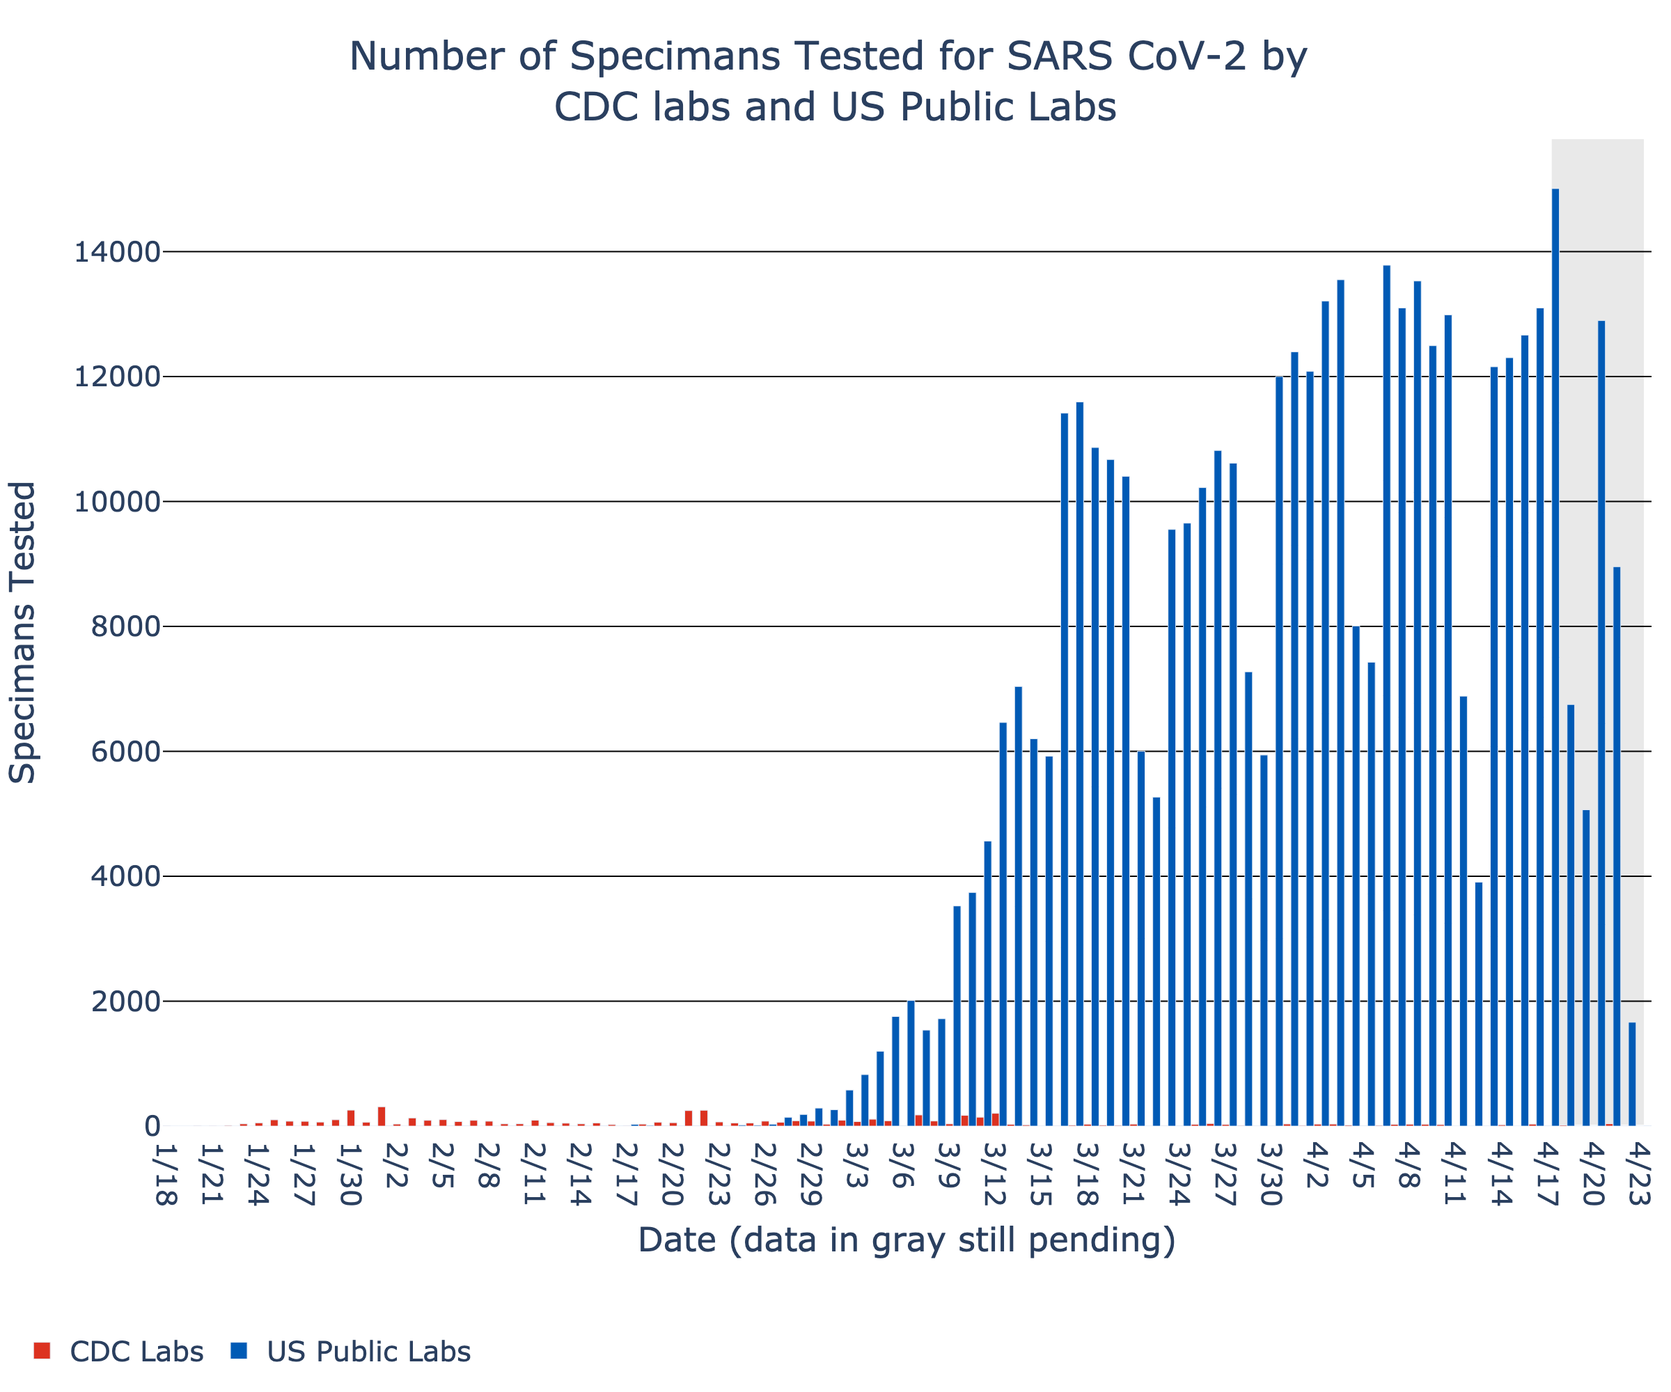
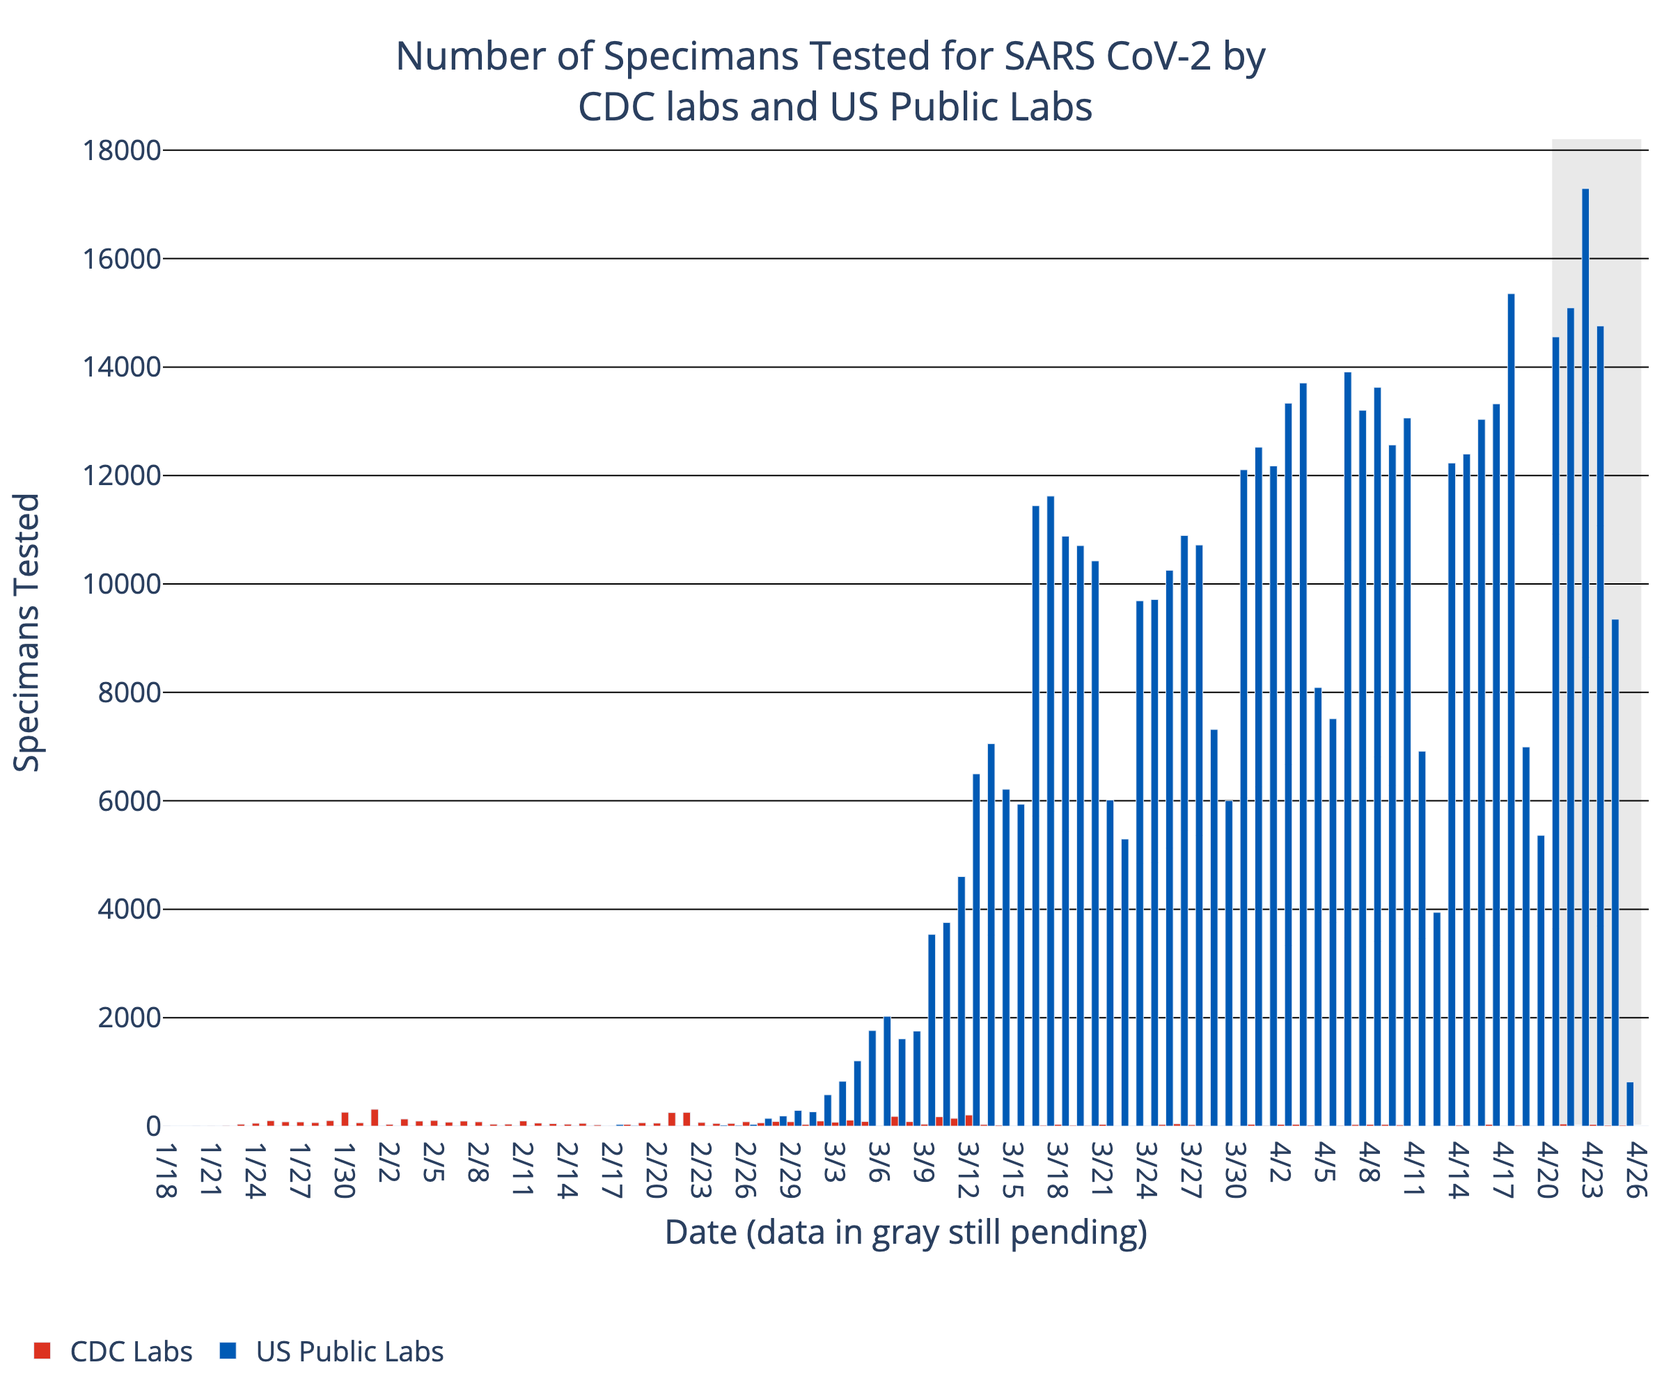
ran cdc plot scripts

diff --git a/_includes/plotCDCdata.html b/_includes/plotCDCdata.html
@@ -3,7 +3,7 @@
   <img alt="Access alternative presentations of this graph using the SAS Graphics Accelerator" id="graph" src="../Images_Plotly/CDCTestingPlotly.png"/>
  </div>
  <script class="ODSGraphics" type="application/xml">
-  <?xml version="1.0" encoding="utf-8" ?><SASReport version="1.2" xmlns:style="http://www.sas.com/sasreportmodel/styles"><Data version="sga3.2"><DataModel name="StatGraphDataModel"><IQData type="2DEmbedded" name="StatGraphData"><EmbeddedData><Variables><Variable name="VAR1" label="Date Collected" type="Numeric" valuesCount="194" SASFormat="mmddyys."  /><Variable name="VAR2" label="Specimens Collected" type="Numeric" valuesCount="194" SASFormat="comma."  /><Variable name="VAR3" label="Category" type="String" length="100" valuesCount="194"  /></Variables><ValuesList valuesCount="194" ><V>1/18</V><V>4</V><V>CDC Labs</V><V>1/18</V><V>0</V><V>US Public Health Labs</V><V>1/19</V><V>0</V><V>CDC Labs</V><V>1/19</V><V>0</V><V>US Public Health Labs</V><V>1/20</V><V>7</V><V>CDC Labs</V><V>1/20</V><V>0</V><V>US Public Health Labs</V><V>1/21</V><V>3</V><V>CDC Labs</V><V>1/21</V><V>0</V><V>US Public Health Labs</V><V>1/22</V><V>10</V><V>CDC Labs</V><V>1/22</V><V>0</V><V>US Public Health Labs</V><V>1/23</V><V>36</V><V>CDC Labs</V><V>1/23</V><V>0</V><V>US Public Health Labs</V><V>1/24</V><V>53</V><V>CDC Labs</V><V>1/24</V><V>0</V><V>US Public Health Labs</V><V>1/25</V><V>101</V><V>CDC Labs</V><V>1/25</V><V>0</V><V>US Public Health Labs</V><V>1/26</V><V>79</V><V>CDC Labs</V><V>1/26</V><V>0</V><V>US Public Health Labs</V><V>1/27</V><V>77</V><V>CDC Labs</V><V>1/27</V><V>0</V><V>US Public Health Labs</V><V>1/28</V><V>65</V><V>CDC Labs</V><V>1/28</V><V>0</V><V>US Public Health Labs</V><V>1/29</V><V>102</V><V>CDC Labs</V><V>1/29</V><V>0</V><V>US Public Health Labs</V><V>1/30</V><V>256</V><V>CDC Labs</V><V>1/30</V><V>0</V><V>US Public Health Labs</V><V>1/31</V><V>63</V><V>CDC Labs</V><V>1/31</V><V>0</V><V>US Public Health Labs</V><V>2/1</V><V>310</V><V>CDC Labs</V><V>2/1</V><V>3</V><V>US Public Health Labs</V><V>2/2</V><V>33</V><V>CDC Labs</V><V>2/2</V><V>0</V><V>US Public Health Labs</V><V>2/3</V><V>131</V><V>CDC Labs</V><V>2/3</V><V>1</V><V>US Public Health Labs</V><V>2/4</V><V>93</V><V>CDC Labs</V><V>2/4</V><V>0</V><V>US Public Health Labs</V><V>2/5</V><V>104</V><V>CDC Labs</V><V>2/5</V><V>3</V><V>US Public Health Labs</V><V>2/6</V><V>74</V><V>CDC Labs</V><V>2/6</V><V>2</V><V>US Public Health Labs</V><V>2/7</V><V>93</V><V>CDC Labs</V><V>2/7</V><V>0</V><V>US Public Health Labs</V><V>2/8</V><V>79</V><V>CDC Labs</V><V>2/8</V><V>0</V><V>US Public Health Labs</V><V>2/9</V><V>36</V><V>CDC Labs</V><V>2/9</V><V>2</V><V>US Public Health Labs</V><V>2/10</V><V>37</V><V>CDC Labs</V><V>2/10</V><V>1</V><V>US Public Health Labs</V><V>2/11</V><V>95</V><V>CDC Labs</V><V>2/11</V><V>2</V><V>US Public Health Labs</V><V>2/12</V><V>56</V><V>CDC Labs</V><V>2/12</V><V>2</V><V>US Public Health Labs</V><V>2/13</V><V>47</V><V>CDC Labs</V><V>2/13</V><V>1</V><V>US Public Health Labs</V><V>2/14</V><V>36</V><V>CDC Labs</V><V>2/14</V><V>5</V><V>US Public Health Labs</V><V>2/15</V><V>51</V><V>CDC Labs</V><V>2/15</V><V>4</V><V>US Public Health Labs</V><V>2/16</V><V>24</V><V>CDC Labs</V><V>2/16</V><V>1</V><V>US Public Health Labs</V><V>2/17</V><V>7</V><V>CDC Labs</V><V>2/17</V><V>29</V><V>US Public Health Labs</V><V>2/18</V><V>32</V><V>CDC Labs</V><V>2/18</V><V>11</V><V>US Public Health Labs</V><V>2/19</V><V>63</V><V>CDC Labs</V><V>2/19</V><V>6</V><V>US Public Health Labs</V><V>2/20</V><V>55</V><V>CDC Labs</V><V>2/20</V><V>5</V><V>US Public Health Labs</V><V>2/21</V><V>249</V><V>CDC Labs</V><V>2/21</V><V>3</V><V>US Public Health Labs</V><V>2/22</V><V>254</V><V>CDC Labs</V><V>2/22</V><V>3</V><V>US Public Health Labs</V><V>2/23</V><V>67</V><V>CDC Labs</V><V>2/23</V><V>2</V><V>US Public Health Labs</V><V>2/24</V><V>50</V><V>CDC Labs</V><V>2/24</V><V>19</V><V>US Public Health Labs</V><V>2/25</V><V>50</V><V>CDC Labs</V><V>2/25</V><V>14</V><V>US Public Health Labs</V><V>2/26</V><V>80</V><V>CDC Labs</V><V>2/26</V><V>31</V><V>US Public Health Labs</V><V>2/27</V><V>62</V><V>CDC Labs</V><V>2/27</V><V>142</V><V>US Public Health Labs</V><V>2/28</V><V>86</V><V>CDC Labs</V><V>2/28</V><V>187</V><V>US Public Health Labs</V><V>2/29</V><V>80</V><V>CDC Labs</V><V>2/29</V><V>289</V><V>US Public Health Labs</V><V>3/1</V><V>31</V><V>CDC Labs</V><V>3/1</V><V>263</V><V>US Public Health Labs</V><V>3/2</V><V>94</V><V>CDC Labs</V><V>3/2</V><V>578</V><V>US Public Health Labs</V><V>3/3</V><V>73</V><V>CDC Labs</V><V>3/3</V><V>825</V><V>US Public Health Labs</V><V>3/4</V><V>111</V><V>CDC Labs</V><V>3/4</V><V>1199</V><V>US Public Health Labs</V><V>3/5</V><V>86</V><V>CDC Labs</V><V>3/5</V><V>1755</V><V>US Public Health Labs</V><V>3/6</V><V>5</V><V>CDC Labs</V><V>3/6</V><V>2013</V><V>US Public Health Labs</V><V>3/7</V><V>179</V><V>CDC Labs</V><V>3/7</V><V>1537</V><V>US Public Health Labs</V><V>3/8</V><V>82</V><V>CDC Labs</V><V>3/8</V><V>1719</V><V>US Public Health Labs</V><V>3/9</V><V>36</V><V>CDC Labs</V><V>3/9</V><V>3525</V><V>US Public Health Labs</V><V>3/10</V><V>172</V><V>CDC Labs</V><V>3/10</V><V>3741</V><V>US Public Health Labs</V><V>3/11</V><V>143</V><V>CDC Labs</V><V>3/11</V><V>4564</V><V>US Public Health Labs</V><V>3/12</V><V>205</V><V>CDC Labs</V><V>3/12</V><V>6463</V><V>US Public Health Labs</V><V>3/13</V><V>29</V><V>CDC Labs</V><V>3/13</V><V>7039</V><V>US Public Health Labs</V><V>3/14</V><V>20</V><V>CDC Labs</V><V>3/14</V><V>6202</V><V>US Public Health Labs</V><V>3/15</V><V>1</V><V>CDC Labs</V><V>3/15</V><V>5923</V><V>US Public Health Labs</V><V>3/16</V><V>3</V><V>CDC Labs</V><V>3/16</V><V>11415</V><V>US Public Health Labs</V><V>3/17</V><V>15</V><V>CDC Labs</V><V>3/17</V><V>11594</V><V>US Public Health Labs</V><V>3/18</V><V>31</V><V>CDC Labs</V><V>3/18</V><V>10865</V><V>US Public Health Labs</V><V>3/19</V><V>15</V><V>CDC Labs</V><V>3/19</V><V>10673</V><V>US Public Health Labs</V><V>3/20</V><V>11</V><V>CDC Labs</V><V>3/20</V><V>10404</V><V>US Public Health Labs</V><V>3/21</V><V>32</V><V>CDC Labs</V><V>3/21</V><V>6003</V><V>US Public Health Labs</V><V>3/22</V><V>1</V><V>CDC Labs</V><V>3/22</V><V>5268</V><V>US Public Health Labs</V><V>3/23</V><V>2</V><V>CDC Labs</V><V>3/23</V><V>9553</V><V>US Public Health Labs</V><V>3/24</V><V>4</V><V>CDC Labs</V><V>3/24</V><V>9654</V><V>US Public Health Labs</V><V>3/25</V><V>29</V><V>CDC Labs</V><V>3/25</V><V>10223</V><V>US Public Health Labs</V><V>3/26</V><V>42</V><V>CDC Labs</V><V>3/26</V><V>10818</V><V>US Public Health Labs</V><V>3/27</V><V>26</V><V>CDC Labs</V><V>3/27</V><V>10614</V><V>US Public Health Labs</V><V>3/28</V><V>9</V><V>CDC Labs</V><V>3/28</V><V>7274</V><V>US Public Health Labs</V><V>3/29</V><V>1</V><V>CDC Labs</V><V>3/29</V><V>5941</V><V>US Public Health Labs</V><V>3/30</V><V>5</V><V>CDC Labs</V><V>3/30</V><V>12002</V><V>US Public Health Labs</V><V>3/31</V><V>34</V><V>CDC Labs</V><V>3/31</V><V>12396</V><V>US Public Health Labs</V><V>4/1</V><V>10</V><V>CDC Labs</V><V>4/1</V><V>12084</V><V>US Public Health Labs</V><V>4/2</V><V>32</V><V>CDC Labs</V><V>4/2</V><V>13209</V><V>US Public Health Labs</V><V>4/3</V><V>33</V><V>CDC Labs</V><V>4/3</V><V>13551</V><V>US Public Health Labs</V><V>4/4</V><V>17</V><V>CDC Labs</V><V>4/4</V><V>8008</V><V>US Public Health Labs</V><V>4/5</V><V>5</V><V>CDC Labs</V><V>4/5</V><V>7427</V><V>US Public Health Labs</V><V>4/6</V><V>11</V><V>CDC Labs</V><V>4/6</V><V>13784</V><V>US Public Health Labs</V><V>4/7</V><V>28</V><V>CDC Labs</V><V>4/7</V><V>13100</V><V>US Public Health Labs</V><V>4/8</V><V>31</V><V>CDC Labs</V><V>4/8</V><V>13531</V><V>US Public Health Labs</V><V>4/9</V><V>30</V><V>CDC Labs</V><V>4/9</V><V>12495</V><V>US Public Health Labs</V><V>4/10</V><V>24</V><V>CDC Labs</V><V>4/10</V><V>12989</V><V>US Public Health Labs</V><V>4/11</V><V>0</V><V>CDC Labs</V><V>4/11</V><V>6885</V><V>US Public Health Labs</V><V>4/12</V><V>0</V><V>CDC Labs</V><V>4/12</V><V>3906</V><V>US Public Health Labs</V><V>4/13</V><V>1</V><V>CDC Labs</V><V>4/13</V><V>12158</V><V>US Public Health Labs</V><V>4/14</V><V>21</V><V>CDC Labs</V><V>4/14</V><V>12303</V><V>US Public Health Labs</V><V>4/15</V><V>0</V><V>CDC Labs</V><V>4/15</V><V>12664</V><V>US Public Health Labs</V><V>4/16</V><V>32</V><V>CDC Labs</V><V>4/16</V><V>13099</V><V>US Public Health Labs</V><V>4/17</V><V>6</V><V>CDC Labs</V><V>4/17</V><V>15011</V><V>US Public Health Labs</V><V>4/18</V><V>17</V><V>CDC Labs</V><V>4/18</V><V>6751</V><V>US Public Health Labs</V><V>4/19</V><V>1</V><V>CDC Labs</V><V>4/19</V><V>5065</V><V>US Public Health Labs</V><V>4/20</V><V>0</V><V>CDC Labs</V><V>4/20</V><V>12897</V><V>US Public Health Labs</V><V>4/21</V><V>38</V><V>CDC Labs</V><V>4/21</V><V>8957</V><V>US Public Health Labs</V><V>4/22</V><V>4</V><V>CDC Labs</V><V>4/22</V><V>1663</V><V>US Public Health Labs</V><V>4/23</V><V>0</V><V>CDC Labs</V><V>4/23</V><V>5</V><V>US Public Health Labs</V></ValuesList></EmbeddedData></IQData><VarStats><VarStat name="VAR1" modelName="statgraphdata1" nobs="194" min="0" max="15011" /><VarStat name="VAR2" modelName="statgraphdata1" nobs="194" min="0" max="15011" /></VarStats></DataModel></Data><View><StatGraph subpixel="on" height="480" width="640" designHeight="480" style:style="StatGraphStyle" antiAlias="true" nBinsMax="10000" nXYBinsMax="100000" sessionLocale="en_US" missingOption="." notesOption="true" collation="binary" version="sga3.2"><EntryTitle><EntryItem>Number of specimens tested for SARS CoV-2 by CDC labs and U.S. public health labs</EntryItem></EntryTitle><EntryFootnote><EntryItem hAlign="left">Footnote: US Public Lab after April 10th are incomplete because of the lag in time between when specimens are accessioned, testing is performed, and results are reported.</EntryItem></EntryFootnote><LayoutOverlay><XAxisOpts label="Date Collected"></XAxisOpts><YAxisOpts label="Specimens Collected"></YAxisOpts><BarChartParm category="statgraphdata1#VAR1" response="statgraphdata1#VAR2" stat="sum" group="statgraphdata1#VAR3" groupDisplay="cluster" _stmt="barchart"></BarChartParm></LayoutOverlay></StatGraph></View></SASReport>
+  <?xml version="1.0" encoding="utf-8" ?><SASReport version="1.2" xmlns:style="http://www.sas.com/sasreportmodel/styles"><Data version="sga3.2"><DataModel name="StatGraphDataModel"><IQData type="2DEmbedded" name="StatGraphData"><EmbeddedData><Variables><Variable name="VAR1" label="Date Collected" type="Numeric" valuesCount="200" SASFormat="mmddyys."  /><Variable name="VAR2" label="Specimens Collected" type="Numeric" valuesCount="200" SASFormat="comma."  /><Variable name="VAR3" label="Category" type="String" length="100" valuesCount="200"  /></Variables><ValuesList valuesCount="200" ><V>1/18</V><V>4</V><V>CDC Labs</V><V>1/18</V><V>0</V><V>US Public Health Labs</V><V>1/19</V><V>0</V><V>CDC Labs</V><V>1/19</V><V>0</V><V>US Public Health Labs</V><V>1/20</V><V>7</V><V>CDC Labs</V><V>1/20</V><V>0</V><V>US Public Health Labs</V><V>1/21</V><V>3</V><V>CDC Labs</V><V>1/21</V><V>0</V><V>US Public Health Labs</V><V>1/22</V><V>10</V><V>CDC Labs</V><V>1/22</V><V>0</V><V>US Public Health Labs</V><V>1/23</V><V>36</V><V>CDC Labs</V><V>1/23</V><V>0</V><V>US Public Health Labs</V><V>1/24</V><V>53</V><V>CDC Labs</V><V>1/24</V><V>0</V><V>US Public Health Labs</V><V>1/25</V><V>101</V><V>CDC Labs</V><V>1/25</V><V>0</V><V>US Public Health Labs</V><V>1/26</V><V>79</V><V>CDC Labs</V><V>1/26</V><V>0</V><V>US Public Health Labs</V><V>1/27</V><V>77</V><V>CDC Labs</V><V>1/27</V><V>0</V><V>US Public Health Labs</V><V>1/28</V><V>65</V><V>CDC Labs</V><V>1/28</V><V>0</V><V>US Public Health Labs</V><V>1/29</V><V>102</V><V>CDC Labs</V><V>1/29</V><V>0</V><V>US Public Health Labs</V><V>1/30</V><V>256</V><V>CDC Labs</V><V>1/30</V><V>0</V><V>US Public Health Labs</V><V>1/31</V><V>63</V><V>CDC Labs</V><V>1/31</V><V>0</V><V>US Public Health Labs</V><V>2/1</V><V>310</V><V>CDC Labs</V><V>2/1</V><V>3</V><V>US Public Health Labs</V><V>2/2</V><V>33</V><V>CDC Labs</V><V>2/2</V><V>1</V><V>US Public Health Labs</V><V>2/3</V><V>131</V><V>CDC Labs</V><V>2/3</V><V>1</V><V>US Public Health Labs</V><V>2/4</V><V>93</V><V>CDC Labs</V><V>2/4</V><V>0</V><V>US Public Health Labs</V><V>2/5</V><V>104</V><V>CDC Labs</V><V>2/5</V><V>3</V><V>US Public Health Labs</V><V>2/6</V><V>74</V><V>CDC Labs</V><V>2/6</V><V>4</V><V>US Public Health Labs</V><V>2/7</V><V>93</V><V>CDC Labs</V><V>2/7</V><V>0</V><V>US Public Health Labs</V><V>2/8</V><V>79</V><V>CDC Labs</V><V>2/8</V><V>0</V><V>US Public Health Labs</V><V>2/9</V><V>36</V><V>CDC Labs</V><V>2/9</V><V>2</V><V>US Public Health Labs</V><V>2/10</V><V>37</V><V>CDC Labs</V><V>2/10</V><V>1</V><V>US Public Health Labs</V><V>2/11</V><V>95</V><V>CDC Labs</V><V>2/11</V><V>2</V><V>US Public Health Labs</V><V>2/12</V><V>56</V><V>CDC Labs</V><V>2/12</V><V>2</V><V>US Public Health Labs</V><V>2/13</V><V>47</V><V>CDC Labs</V><V>2/13</V><V>1</V><V>US Public Health Labs</V><V>2/14</V><V>36</V><V>CDC Labs</V><V>2/14</V><V>5</V><V>US Public Health Labs</V><V>2/15</V><V>51</V><V>CDC Labs</V><V>2/15</V><V>4</V><V>US Public Health Labs</V><V>2/16</V><V>24</V><V>CDC Labs</V><V>2/16</V><V>1</V><V>US Public Health Labs</V><V>2/17</V><V>7</V><V>CDC Labs</V><V>2/17</V><V>29</V><V>US Public Health Labs</V><V>2/18</V><V>32</V><V>CDC Labs</V><V>2/18</V><V>11</V><V>US Public Health Labs</V><V>2/19</V><V>63</V><V>CDC Labs</V><V>2/19</V><V>6</V><V>US Public Health Labs</V><V>2/20</V><V>55</V><V>CDC Labs</V><V>2/20</V><V>5</V><V>US Public Health Labs</V><V>2/21</V><V>249</V><V>CDC Labs</V><V>2/21</V><V>4</V><V>US Public Health Labs</V><V>2/22</V><V>254</V><V>CDC Labs</V><V>2/22</V><V>4</V><V>US Public Health Labs</V><V>2/23</V><V>67</V><V>CDC Labs</V><V>2/23</V><V>3</V><V>US Public Health Labs</V><V>2/24</V><V>50</V><V>CDC Labs</V><V>2/24</V><V>20</V><V>US Public Health Labs</V><V>2/25</V><V>50</V><V>CDC Labs</V><V>2/25</V><V>14</V><V>US Public Health Labs</V><V>2/26</V><V>80</V><V>CDC Labs</V><V>2/26</V><V>31</V><V>US Public Health Labs</V><V>2/27</V><V>62</V><V>CDC Labs</V><V>2/27</V><V>142</V><V>US Public Health Labs</V><V>2/28</V><V>86</V><V>CDC Labs</V><V>2/28</V><V>188</V><V>US Public Health Labs</V><V>2/29</V><V>80</V><V>CDC Labs</V><V>2/29</V><V>289</V><V>US Public Health Labs</V><V>3/1</V><V>31</V><V>CDC Labs</V><V>3/1</V><V>264</V><V>US Public Health Labs</V><V>3/2</V><V>94</V><V>CDC Labs</V><V>3/2</V><V>578</V><V>US Public Health Labs</V><V>3/3</V><V>73</V><V>CDC Labs</V><V>3/3</V><V>826</V><V>US Public Health Labs</V><V>3/4</V><V>111</V><V>CDC Labs</V><V>3/4</V><V>1205</V><V>US Public Health Labs</V><V>3/5</V><V>86</V><V>CDC Labs</V><V>3/5</V><V>1762</V><V>US Public Health Labs</V><V>3/6</V><V>5</V><V>CDC Labs</V><V>3/6</V><V>2026</V><V>US Public Health Labs</V><V>3/7</V><V>179</V><V>CDC Labs</V><V>3/7</V><V>1609</V><V>US Public Health Labs</V><V>3/8</V><V>82</V><V>CDC Labs</V><V>3/8</V><V>1753</V><V>US Public Health Labs</V><V>3/9</V><V>36</V><V>CDC Labs</V><V>3/9</V><V>3535</V><V>US Public Health Labs</V><V>3/10</V><V>172</V><V>CDC Labs</V><V>3/10</V><V>3754</V><V>US Public Health Labs</V><V>3/11</V><V>143</V><V>CDC Labs</V><V>3/11</V><V>4602</V><V>US Public Health Labs</V><V>3/12</V><V>205</V><V>CDC Labs</V><V>3/12</V><V>6497</V><V>US Public Health Labs</V><V>3/13</V><V>29</V><V>CDC Labs</V><V>3/13</V><V>7053</V><V>US Public Health Labs</V><V>3/14</V><V>20</V><V>CDC Labs</V><V>3/14</V><V>6213</V><V>US Public Health Labs</V><V>3/15</V><V>1</V><V>CDC Labs</V><V>3/15</V><V>5936</V><V>US Public Health Labs</V><V>3/16</V><V>3</V><V>CDC Labs</V><V>3/16</V><V>11442</V><V>US Public Health Labs</V><V>3/17</V><V>15</V><V>CDC Labs</V><V>3/17</V><V>11620</V><V>US Public Health Labs</V><V>3/18</V><V>31</V><V>CDC Labs</V><V>3/18</V><V>10881</V><V>US Public Health Labs</V><V>3/19</V><V>15</V><V>CDC Labs</V><V>3/19</V><V>10707</V><V>US Public Health Labs</V><V>3/20</V><V>11</V><V>CDC Labs</V><V>3/20</V><V>10425</V><V>US Public Health Labs</V><V>3/21</V><V>32</V><V>CDC Labs</V><V>3/21</V><V>6015</V><V>US Public Health Labs</V><V>3/22</V><V>1</V><V>CDC Labs</V><V>3/22</V><V>5294</V><V>US Public Health Labs</V><V>3/23</V><V>2</V><V>CDC Labs</V><V>3/23</V><V>9690</V><V>US Public Health Labs</V><V>3/24</V><V>4</V><V>CDC Labs</V><V>3/24</V><V>9713</V><V>US Public Health Labs</V><V>3/25</V><V>29</V><V>CDC Labs</V><V>3/25</V><V>10252</V><V>US Public Health Labs</V><V>3/26</V><V>42</V><V>CDC Labs</V><V>3/26</V><V>10894</V><V>US Public Health Labs</V><V>3/27</V><V>26</V><V>CDC Labs</V><V>3/27</V><V>10718</V><V>US Public Health Labs</V><V>3/28</V><V>9</V><V>CDC Labs</V><V>3/28</V><V>7316</V><V>US Public Health Labs</V><V>3/29</V><V>1</V><V>CDC Labs</V><V>3/29</V><V>6005</V><V>US Public Health Labs</V><V>3/30</V><V>5</V><V>CDC Labs</V><V>3/30</V><V>12106</V><V>US Public Health Labs</V><V>3/31</V><V>34</V><V>CDC Labs</V><V>3/31</V><V>12521</V><V>US Public Health Labs</V><V>4/1</V><V>10</V><V>CDC Labs</V><V>4/1</V><V>12176</V><V>US Public Health Labs</V><V>4/2</V><V>32</V><V>CDC Labs</V><V>4/2</V><V>13334</V><V>US Public Health Labs</V><V>4/3</V><V>33</V><V>CDC Labs</V><V>4/3</V><V>13707</V><V>US Public Health Labs</V><V>4/4</V><V>17</V><V>CDC Labs</V><V>4/4</V><V>8089</V><V>US Public Health Labs</V><V>4/5</V><V>5</V><V>CDC Labs</V><V>4/5</V><V>7513</V><V>US Public Health Labs</V><V>4/6</V><V>11</V><V>CDC Labs</V><V>4/6</V><V>13909</V><V>US Public Health Labs</V><V>4/7</V><V>28</V><V>CDC Labs</V><V>4/7</V><V>13202</V><V>US Public Health Labs</V><V>4/8</V><V>31</V><V>CDC Labs</V><V>4/8</V><V>13625</V><V>US Public Health Labs</V><V>4/9</V><V>30</V><V>CDC Labs</V><V>4/9</V><V>12564</V><V>US Public Health Labs</V><V>4/10</V><V>24</V><V>CDC Labs</V><V>4/10</V><V>13060</V><V>US Public Health Labs</V><V>4/11</V><V>0</V><V>CDC Labs</V><V>4/11</V><V>6915</V><V>US Public Health Labs</V><V>4/12</V><V>0</V><V>CDC Labs</V><V>4/12</V><V>3942</V><V>US Public Health Labs</V><V>4/13</V><V>1</V><V>CDC Labs</V><V>4/13</V><V>12231</V><V>US Public Health Labs</V><V>4/14</V><V>21</V><V>CDC Labs</V><V>4/14</V><V>12396</V><V>US Public Health Labs</V><V>4/15</V><V>0</V><V>CDC Labs</V><V>4/15</V><V>13034</V><V>US Public Health Labs</V><V>4/16</V><V>32</V><V>CDC Labs</V><V>4/16</V><V>13323</V><V>US Public Health Labs</V><V>4/17</V><V>6</V><V>CDC Labs</V><V>4/17</V><V>15354</V><V>US Public Health Labs</V><V>4/18</V><V>17</V><V>CDC Labs</V><V>4/18</V><V>6994</V><V>US Public Health Labs</V><V>4/19</V><V>1</V><V>CDC Labs</V><V>4/19</V><V>5364</V><V>US Public Health Labs</V><V>4/20</V><V>0</V><V>CDC Labs</V><V>4/20</V><V>14557</V><V>US Public Health Labs</V><V>4/21</V><V>39</V><V>CDC Labs</V><V>4/21</V><V>15094</V><V>US Public Health Labs</V><V>4/22</V><V>6</V><V>CDC Labs</V><V>4/22</V><V>17293</V><V>US Public Health Labs</V><V>4/23</V><V>31</V><V>CDC Labs</V><V>4/23</V><V>14760</V><V>US Public Health Labs</V><V>4/24</V><V>19</V><V>CDC Labs</V><V>4/24</V><V>9349</V><V>US Public Health Labs</V><V>4/25</V><V>17</V><V>CDC Labs</V><V>4/25</V><V>814</V><V>US Public Health Labs</V><V>4/26</V><V>0</V><V>CDC Labs</V><V>4/26</V><V>0</V><V>US Public Health Labs</V></ValuesList></EmbeddedData></IQData><VarStats><VarStat name="VAR1" modelName="statgraphdata1" nobs="200" min="0" max="17293" /><VarStat name="VAR2" modelName="statgraphdata1" nobs="200" min="0" max="17293" /></VarStats></DataModel></Data><View><StatGraph subpixel="on" height="480" width="640" designHeight="480" style:style="StatGraphStyle" antiAlias="true" nBinsMax="10000" nXYBinsMax="100000" sessionLocale="en_US" missingOption="." notesOption="true" collation="binary" version="sga3.2"><EntryTitle><EntryItem>Number of specimens tested for SARS CoV-2 by CDC labs and U.S. public health labs</EntryItem></EntryTitle><EntryFootnote><EntryItem hAlign="left">Footnote: US Public Lab after April 10th are incomplete because of the lag in time between when specimens are accessioned, testing is performed, and results are reported.</EntryItem></EntryFootnote><LayoutOverlay><XAxisOpts label="Date Collected"></XAxisOpts><YAxisOpts label="Specimens Collected"></YAxisOpts><BarChartParm category="statgraphdata1#VAR1" response="statgraphdata1#VAR2" stat="sum" group="statgraphdata1#VAR3" groupDisplay="cluster" _stmt="barchart"></BarChartParm></LayoutOverlay></StatGraph></View></SASReport>
  </script>
 </div>
 <div id="sas-sga-message">
